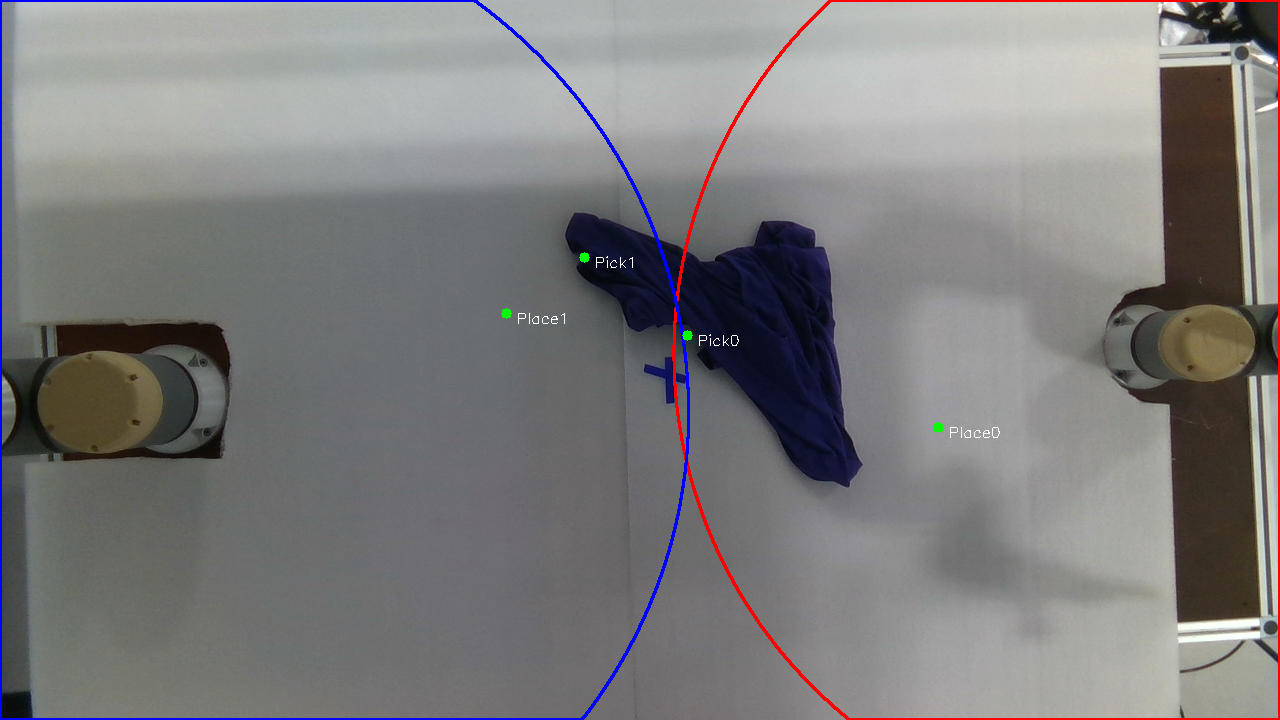
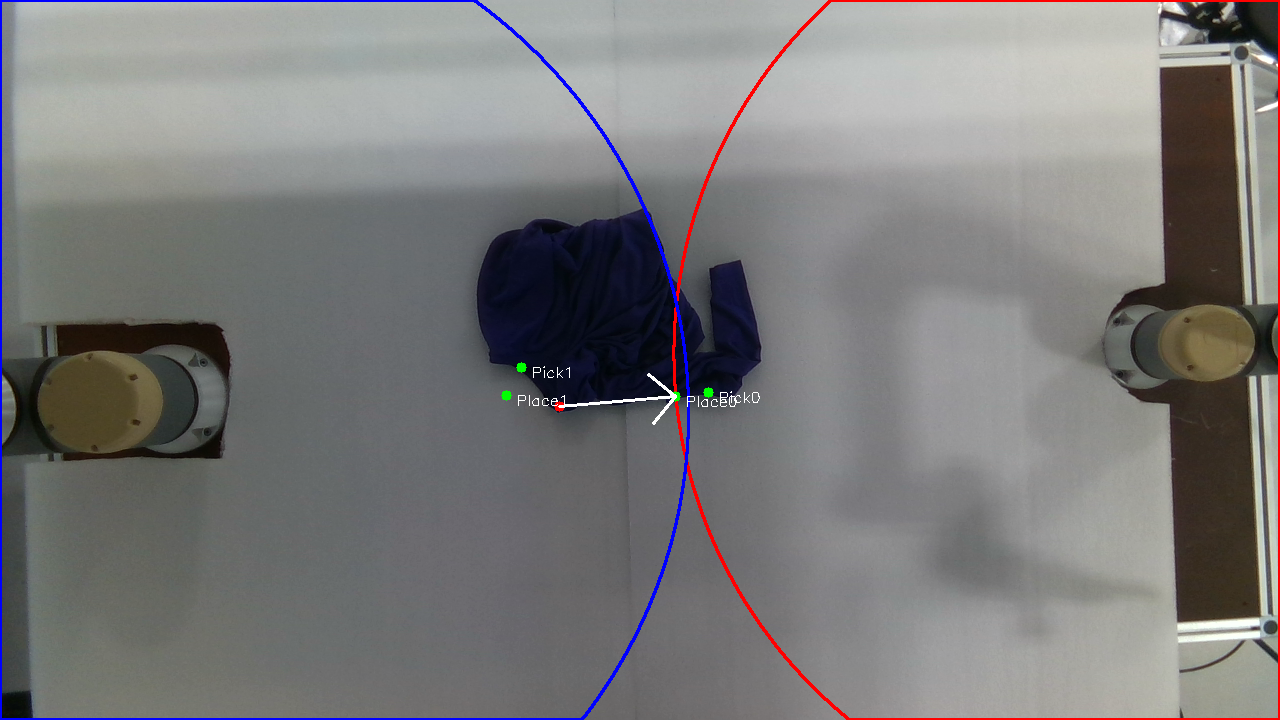
snapping to cloth masks work

Changed region(s): [[0.3438, 0.275, 0.6875, 0.7028], [0.7188, 0.5806, 0.7812, 0.6111]]

diff --git a/real_robot/robot/dual_arm_arena.py b/real_robot/robot/dual_arm_arena.py
@@ -255,10 +255,10 @@ class DualArmArena(Arena):
         # --- Step 1: Convert normalized → crop → full bird-eye pixels ---
         # Scale from [-1, 1] to [0, crop_size]
         points_crop = ((norm_pixels + 1) / 2 * self.crop_size).astype(np.int32)
-
+        print('points crop before snapping', points_crop)
         if self.snap_to_cloth_mask:
             # Get the current mask
-            mask = self.info['observation']['mask'].astype(np.uint8)
+            mask = self.cloth_mask
             
             # --- EROSION STEP START ---
             # Erode the mask by 2 pixels to force points slightly inward
@@ -281,8 +281,8 @@ class DualArmArena(Arena):
                 else:
                     snapped_points.append(pt)
             points_crop = np.array(snapped_points)
-
-        # Add crop offset (x1, y1) to get coordinates in the Full Raw Image
+        print('point scrop after snapping', points_crop)
+        # Add crop offset (x1, y1) to get,  coordinates in the Full Raw Image
         # Shape is (N, 2) where N is usually 4 (Pick0, Pick1, Place0, Place1)
         points_orig = points_crop + np.array([self.x1, self.y1])
         
